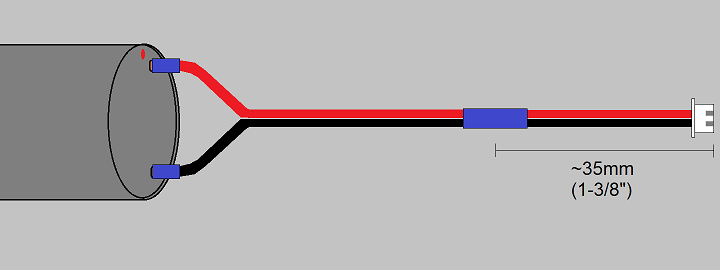
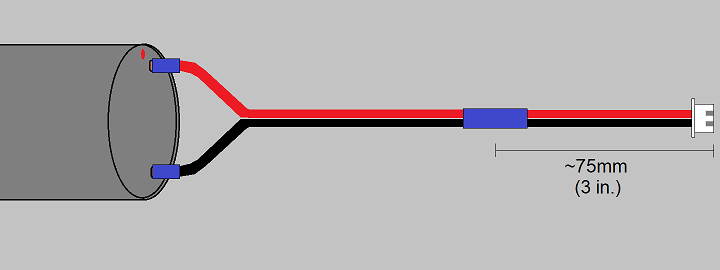
Corrected information about where to put the heat-shrink tubing.
These are bits that are they to cushion the cable where strain relief
is applied.

Changed region(s): [[0.7639, 0.5926, 0.8861, 0.7407]]

diff --git a/notes/assembly.md b/notes/assembly.md
@@ -151,7 +151,7 @@ The 3D parts are designed to be printed with a 0.4mm nozzle without supports.  T
 - [ ] Strip about 5 mm (3/8 inch) from the red wire and solder it to the marked terminal.
 - [ ] Strip about 5 mm (3/8 inch) from the black wire and solder it to the other terminal.
 - [ ] Slide the individual tubes over the exposed connections and shrink them down.
-- [ ] Slide the larger tubing so that the center of it is about 35 mm (3 inches) from the connector and shrink it down.
+- [ ] Slide the larger tubing so that the center of it is about 35 mm (1-3/8 inches) from the connector and shrink it down.
 
 ![Motor pigtail](motor_pigtail_small.png)
 
@@ -231,17 +231,15 @@ Note:  The lever of the switch is smaller than shown in the illustration above.
 
 **Norcal Haunters**:  The Make & Take kits have pre-made sensor cables.  You're welcome.
 
-- [x] Slide an approximately 30 mm (1.25-inch) section of heat shrink tubing over the cable.  Do not shrink it yet.
 - [x] Remove about 25 mm (1 inch) of the jacket from one end of the cable, being careful not to nick the insulation on the wires inside.
 - [x] Strip about 2 mm from the tips of each of the exposed wires.
 - [x] Crimp the JST XH pins (female) onto the wires.
 - [x] Insert the pins into the JST XH housing in **RED/YELLOW/BLACK** order, starting with RED closest to the notch in the housing.
-- [x] Shrink the tubing over the cable jacket, near where you cut it away.  This will provide some additional cushion when you later cinch it down with a cable tie.
-- [x] Slide another 1- to 2-inch section of heat shrink tubing onto the cable from this end.
+- [x] Slide an approximately 25 mm (1 inch) length of heat-shrink tubing over the cable and shrink it down approximately 75 mm (1-3/8 inch) back from the JST connector.
 - [x] Remove about 25 mm (1 inch) of the jacket from the other end of the cable.
 - [x] Strip about 2 mm from the tips of each of the exposed wires.
 - [x] Crimp the Dupont-style pins (female) onto the wires.  Do not put them into the connector housing yet.
-- [x] Shrink the tubing so that the center of the length is 40 mm (1-5/8 inches) from the tips of the Dupont pins.  This will provide some cushion where the cable gland clamps the cable.
+- [x] Slide another 25 mm (1 inch) length of heat shrink tubing over the cable and shrink it down approximately 50 mm (2 inches) 1- to 2-inch section of heat shrink tubing onto the cable from this end.
 
 ### Connect the Motion Sensor (`#SSSDUP` only)
 